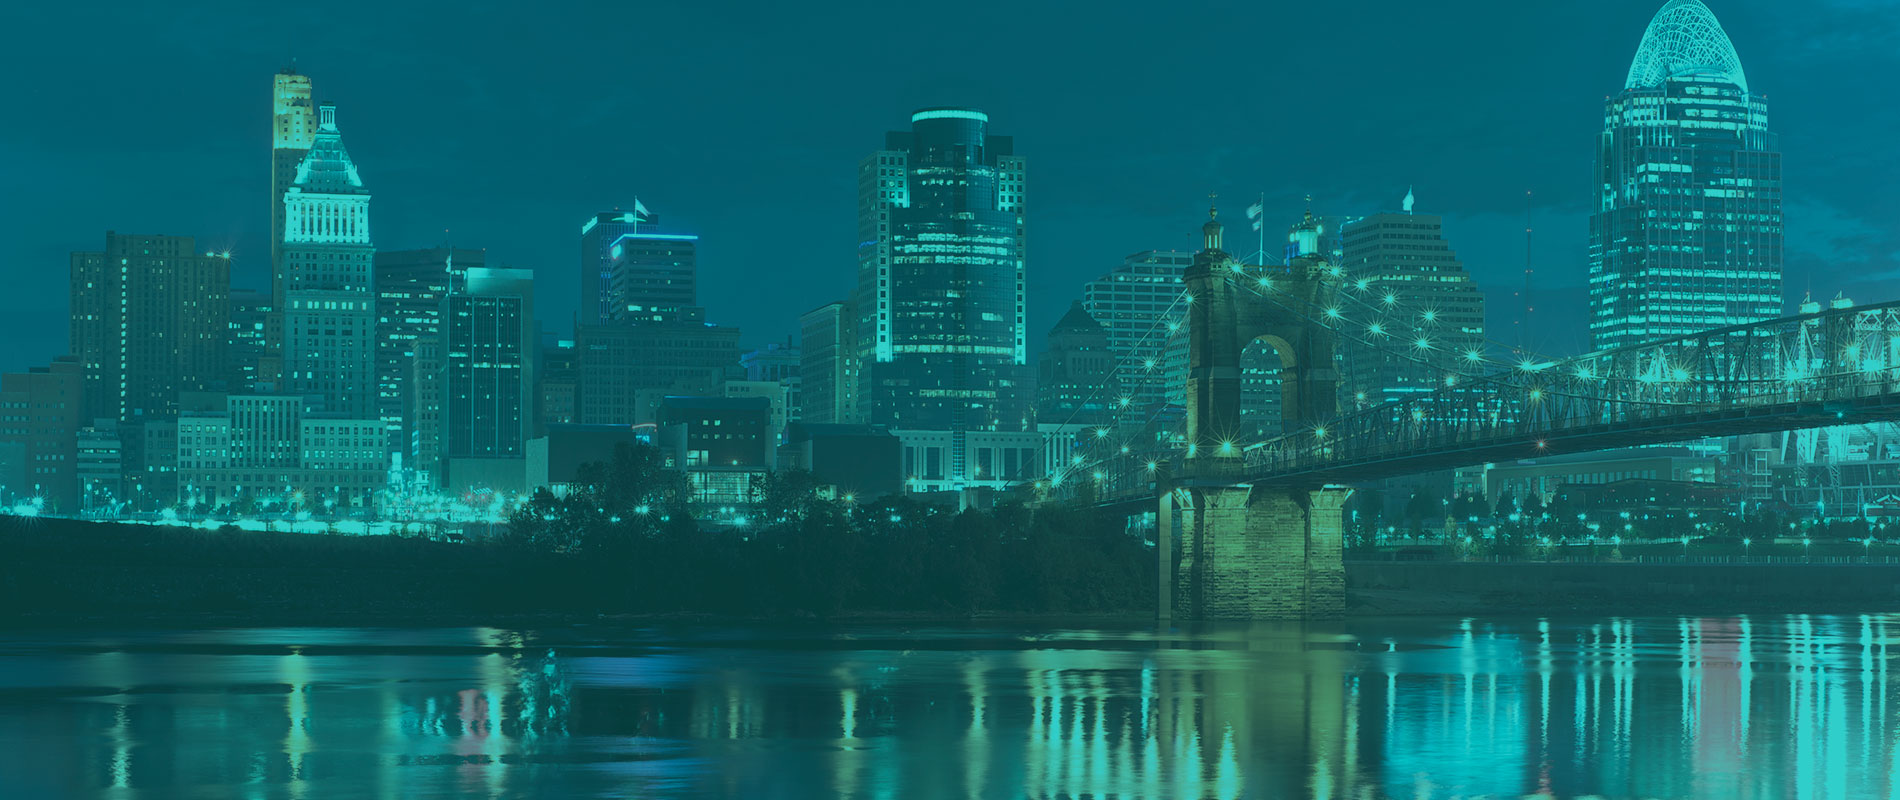
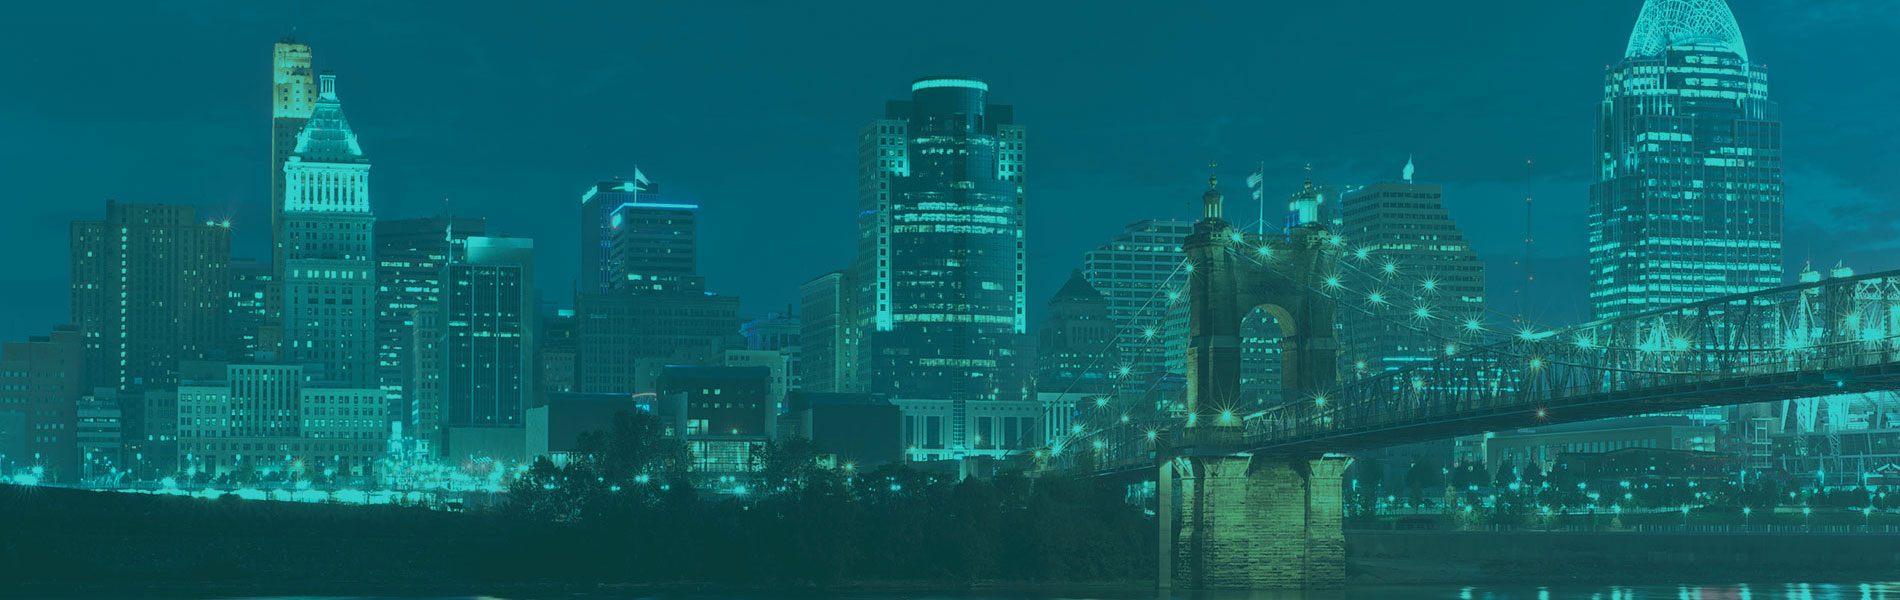
more experiments

diff --git a/unit_3-1/index.html b/unit_3-1/index.html
@@ -1,59 +1,73 @@
 <!DOCTYPE html>
+
 <html>
-	<head>
-		<title>Parris Design</title>
-		<link rel="stylesheet" type="text/css" href="css/style.css">
-		<script src="https://use.typekit.net/sde4fln.js"></script>
-		<script>try{Typekit.load({ async: true });}catch(e){}</script>
-	</head>
+<head>
+	<title>Parris Design</title>
+	<link rel="stylesheet" type="text/css" href="css/style.css">
+	<script src="https://use.typekit.net/sde4fln.js"></script>
+	<script>try{Typekit.load({ async: true });}catch(e){}</script>
+</head>
 
 
-	<body>
-		<img src="images/coverimage.jpg" alt="Photo of Cincinnati" title="Cincinnait skyline">
-		<img src="images/parris-design-wht.png" alt="Parris Design Logo" title="Parris Design Logo">
-			<h1>Digital-savvy design and creative problem solving</h1>
-			<p>Strategic thinking and visual ideas that exceed expectations.</p>
-			<h2>NADINE PARRIS</h2>
-			<h1>Learn more</h1>
-			<h2><a href="#">ABOUT ME</a></h2>
+<body>
+	<img src="images/parris-design-wht.png" alt="Parris Design Logo" title="Parris Design Logo">
+	<h1>Digital-savvy design and creative problem solving</h1>
+	<p>Strategic thinking and visual ideas that exceed expectations.</p>
+	<hr>
+	<h2>NADINE PARRIS</h2>
+	<br>
+	<br>
+	<br>
+	<br>
+	<br>
+	<br>
+	<br>
+	<br>
+
+
+	<section>
+		<h5>Learn more</h5>
+		<h2><a href="#">ABOUT ME</a></h2>
 		<img src="images/print-pic.jpg" alt="Picture of Printed Items" title="Printed Pieces">
-
-		<section>
-			<img src="images/aboutme.jpg" alt="Photo of Nadine Parris" title="Nadine Parris">
-				<h1>View my</h1>
-				<h2><a href="#">PORTFOLIO</a></h2>
-			<img src="images/computer.jpg" alt="Photo of a computer" title="Computer Photo">
-		</section>	
-
-		<section>
-			<h1>What my clients are saying:</h1> 
-				<h5>"I can't express fully, my sincere appreciation, for all of your efforts to deliver what will be a central communication and collaboration platform for the Energy team."</h5>
-		</section>	
+	</section>
 
 
+	<section>
+		<img src="images/aboutme.jpg" alt="Photo of Nadine Parris" title="Nadine Parris">
+		<h5>View my</h5>
+		<h2><a href="#">PORTFOLIO</a></h2>
+		<img src="images/computer.jpg" alt="Photo of a computer" title="Computer Photo">
+	</section>	
 
-		<section>
-			<h6>DEDICATION & PASSION</h6>
-				<img src="images/print-icon.png" alt="Print Icon" title="Print Icon">
-					<h4>Print</h4>
-					<p>Highly creative print concepts and brand identity</p>
-				<img src="images/web-icon.png" alt="Web Icon" title="Web Icon">
-					<h4>Web</h4>
-					<p>Site architecture, wireframes and web design</p>
-				<img src="images/ux-ui-icon.png" alt="UX/UI Icon" title="UX/UI Icon">
-					<h4>UX/UI</h4>
-					<p>User testing and focus group facilitation</p>
-		</section>
+	<section>
+		<h5>What my clients are saying:</h5> 
+		<h3>"I can't express fully, my sincere appreciation, for all of your efforts to deliver what will be a central communication and collaboration platform for the Energy team."</h3>
+	</section>	
 
 
-		<footer>
-			<nav>
-				<a href="#">HOME</a>
-				<a href="#">ABOUT</a>
-				<a href="#">PORTFOLIO</a>
-				<a href="#">CONTACT</a>
-			</nav>
-		</footer>
 
-	</body>
+	<section>
+		<h2>DEDICATION & PASSION</h2>
+		<img src="images/print-icon.png" alt="Print Icon" title="Print Icon">
+		<h4>Print/Brand Identity</h4>
+		<p>Highly creative print concepts and brand identity</p>
+		<img src="images/web-icon.png" alt="Web Icon" title="Web Icon">
+		<h4>Web</h4>
+		<p>Site architecture, wireframes and web design</p>
+		<img src="images/ux-ui-icon.png" alt="UX/UI Icon" title="UX/UI Icon">
+		<h4>UX/UI</h4>
+		<p>User testing and focus group facilitation</p>
+	</section>
+
+
+	<footer>
+		<nav>
+			<a href="#">HOME</a>
+			<a href="#">ABOUT</a>
+			<a href="#">PORTFOLIO</a>
+			<a href="#">CONTACT</a>
+		</nav>
+	</footer>
+
+</body>
 </html>

diff --git a/unit_3-1/css/style.css b/unit_3-1/css/style.css
@@ -4,42 +4,43 @@
 }
 body {
 	text-align: center;
-	background: "images/coverimage.jpg";
-	background-size: cover;
-	color: #000;
+	background: url("../images/coverimage.jpg");
+	background-size: 1900px;
+	background-repeat: no-repeat;
+	color: #000s;
 	font-family: "proxima-nova", sans-serif;
-	font-size: 16;
-	line-height: 32px}
-a {
+	font-size: 18px;
+	padding-top: 150px;
+}
+p   {
+	font-size: 50;
+	line-height: 32px;
+}
+hr	{
+	width: 200px;
+}
+a   {
 	color: #666;
 	text-decoration: none;
+	padding-right: 20px;
+	padding-left: 20px;
 }	
-nav a {
-	color: #999;
-	margin-right: 10px;
-	font-family: "proxima-nova", sans-serif;
-	font-weight: 700;
-	margin-right: 20px;
-	text-align: right;
-}
 h1	{
 	font-family: "Georgia Book", serif;
 	font-size: 20px;
 	font-style: italic;
 	padding-top: 10px;
-	text-align: center;
 	font-color: #000;
 }
 h2	{
-	font-family: "proxima-nova", sans-serif;;
+	font-family: "proxima-nova", sans-serif;
 	font-size: 30px;
 	font-color: #000;
 	font-weight: 700;
 	line-height: 34px;
-	text-align: center;
 }
 h3	{
-	font-family: "proxima-nova", sans-serif;;
+	font-family: "proxima-nova", sans-serif;
 	font-size: 28px;
 	font-weight: 100;
 	line-height: 30px;
@@ -50,31 +51,23 @@ h4	{
 	padding-bottom: 10px;
 	padding-top: 10px;
 	font-weight: 900;
-	text-align: center;
 }
 h5	{
-	font-family: "proxima-nova", sans-serif;
-	font-size: 30px;
-	font-weight: 100;
-	font-color: #000;
-	text-align: left;
-	padding-top: 20;
-	padding-bottom: 20;
+	font-family: "Georgia Book", serif;
+	font-size: 20px;
+	font-style: italic;
+	padding-top: 10px;
+	font-color: #154678;
 }
 h6	{
-	font-family: "proxima-nova", sans-serif;;
+	font-family: "proxima-nova", sans-serif;
 	font-size: 30px;
 	font-color: #000;
 	font-weight: 700;
 	line-height: 50px;
-	text-align: center;
 	padding-top: 20px;
 }
-b1	{
-	font-family: "proxima-nova", sans-serif;
-	font-size: 16px;
-	font-weight: 300;
-	padding-bottom: 14px;
-	font-color: #222;
+div.whitetext {
+	font-color: #fff;
 }
 
